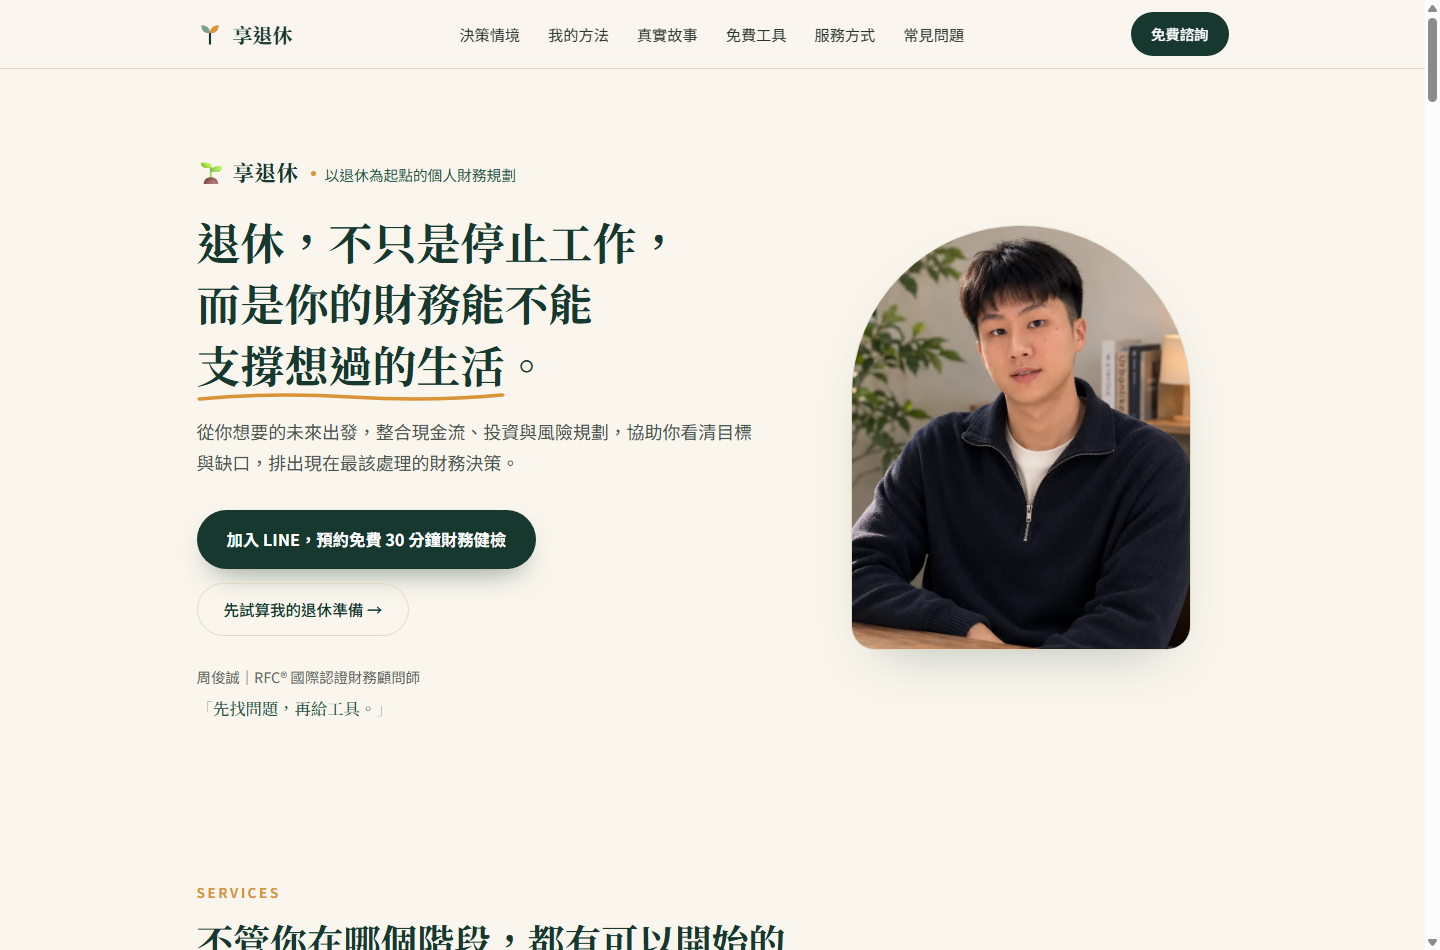
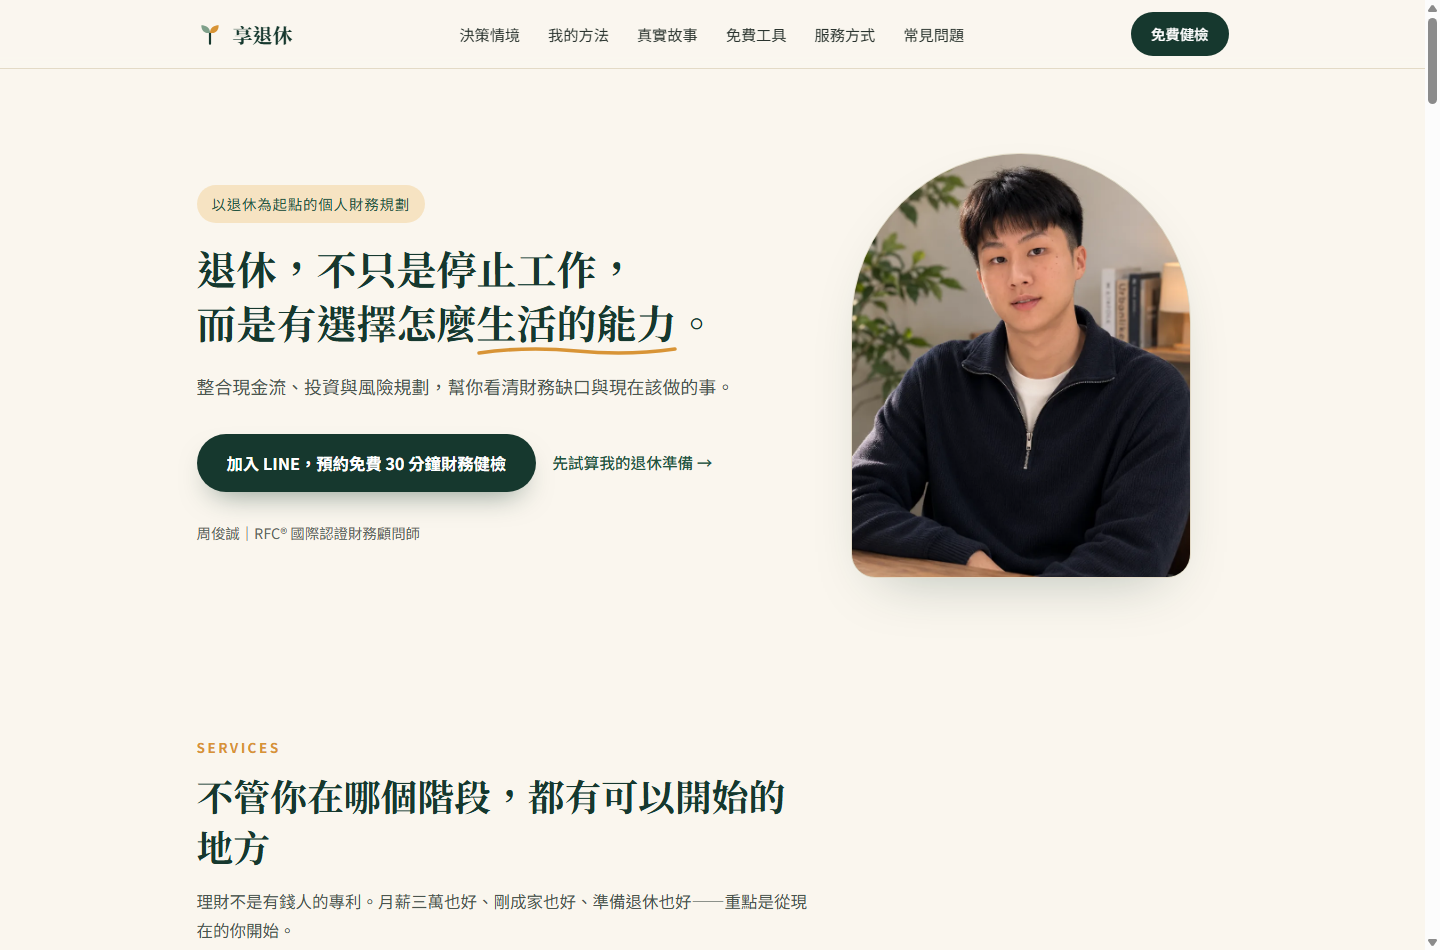
update

diff --git a/css/styles.css b/css/styles.css
@@ -69,9 +69,10 @@ header{
 }
 .hero h1{
   font-family:var(--serif);font-weight:700;color:var(--pine);
-  font-size:clamp(1.9rem, 3.2vw, 2.75rem);line-height:1.4;margin-bottom:20px;
+  font-size:clamp(1.9rem, 3vw, 2.5rem);line-height:1.35;margin-bottom:22px;
   text-wrap:balance;
 }
+.hero-h1-br{display:inline}
 .hl{position:relative;white-space:nowrap}
 .hl svg{position:absolute;left:0;bottom:-6px;width:100%;height:12px}
 .hero p.lead{font-size:1.12rem;color:#4A554E;max-width:32em;margin-bottom:32px}
@@ -96,20 +97,19 @@ header{
 }
 .portrait .badge b{font-family:var(--num);font-size:1.3rem;color:var(--pine);display:block}
 
-/* ---------- Hero:品牌 kicker・身分・方法・CTA 層級 ---------- */
+/* ---------- Hero:小標・身分・CTA 層級 ---------- */
 .hero-copy{max-width:40em}
-.hero-brand{display:flex;flex-wrap:wrap;align-items:baseline;gap:4px 12px;margin-bottom:20px}
-.hero-brand-name{font-family:var(--serif);font-weight:700;font-size:1.35rem;color:var(--pine);letter-spacing:.02em}
-.hero-brand-desc{font-size:.92rem;color:var(--pine-2);position:relative;padding-left:14px}
-.hero-brand-desc::before{content:"";position:absolute;left:0;top:.6em;width:5px;height:5px;border-radius:50%;background:var(--honey)}
+.hero-kicker{display:inline-block;font-size:.9rem;letter-spacing:.06em;color:var(--pine-2);
+  background:var(--honey-soft);padding:6px 15px;border-radius:999px;margin-bottom:18px}
 .btn.btn-lg{padding:15px 30px;font-size:1.02rem;font-weight:700}
-.hero-cta-primary{box-shadow:0 14px 30px -14px rgba(22,56,46,.55)}
-.btn.ghost{background:transparent;color:var(--pine);border:1.5px solid var(--line)}
-.btn.ghost:hover{background:var(--paper-2);color:var(--pine-2);border-color:var(--sage);transform:translateY(-1px)}
-.hero-id{font-size:.9rem;color:#5B6760;margin-top:28px}
-.hero-method{font-family:var(--serif);font-size:1.02rem;color:var(--pine-2);margin-top:5px}
-.hero-method::before{content:"「";opacity:.45}
-.hero-method::after{content:"」";opacity:.45}
+.hero-cta-primary{box-shadow:0 14px 30px -14px rgba(22,56,46,.55);white-space:nowrap}
+/* 次要 CTA:輕量文字連結,視覺層級明顯低於主 CTA */
+.hero-link{display:inline-flex;align-items:center;gap:4px;color:var(--pine-2);font-size:.98rem;
+  font-weight:500;text-decoration:none;padding:6px 2px;border-bottom:1px solid transparent;transition:.2s}
+.hero-link:hover{color:var(--pine);border-bottom-color:var(--sage)}
+.hero-id{display:flex;align-items:center;gap:10px;font-size:.9rem;color:#5B6760;margin-top:28px}
+.hero-id-ava{display:none;width:52px;height:52px;border-radius:50%;object-fit:cover;
+  border:2px solid #fff;box-shadow:0 4px 14px -6px rgba(22,56,46,.4);flex:none}
 
 /* ---------- 信任條 ---------- */
 .trust{border-top:1px solid var(--line);border-bottom:1px solid var(--line);background:var(--paper-2)}
@@ -327,21 +327,19 @@ footer .disc{max-width:720px;margin-top:10px;line-height:1.7}
   .quote{flex-basis:calc((100% - 22px)/2)}   /* 平板:一頁 2 則 */
   .trust-grid{grid-template-columns:repeat(2,1fr);gap:24px 12px}
   .nav-links{display:none}
-  /* 行動版:文字(品牌/標題/CTA)優先，大頭照縮小排到下方，一進頁就看得到在做什麼與下一步 */
-  .hero-grid{gap:24px}
+  /* 手機 Hero:降低密度 — 隱藏大照片改小頭像、次要 CTA 改文字連結、間距收斂 */
   .hero-copy{max-width:none}
-  .hero-brand{margin-bottom:14px}
-  .hero p.lead{margin-bottom:20px}
-  .hero-cta{flex-direction:column;align-items:stretch;gap:12px}
+  .hero-kicker{margin-bottom:16px}
+  .hero h1{margin-bottom:22px}
+  .hero p.lead{margin-bottom:28px}
+  .hero-cta{flex-direction:column;align-items:stretch;gap:14px}
   .hero-cta .btn{width:100%;text-align:center}
-  .hero-id{margin-top:22px}
-  .portrait{order:1;margin-top:4px}
-  .portrait .frame{width:min(200px,50vw)}
-  .portrait .frame span{font-size:3.4rem}
-  .portrait .badge{right:-6px;bottom:16px;padding:9px 13px;font-size:.78rem}
-  .portrait .badge b{font-size:1.05rem}
+  .hero-cta .hero-link{justify-content:center}
+  .hero-id{margin-top:24px}
+  .hero-id-ava{display:block}
+  .portrait{display:none}
   section{padding:64px 0}
-  .hero{padding:44px 0 48px}
+  .hero{padding:40px 0 44px}
   .calc-sec{margin:0}
   body{font-size:16px}
 }
@@ -428,9 +426,11 @@ footer .disc{max-width:720px;margin-top:10px;line-height:1.7}
   .quiz-detail{grid-template-columns:1fr}
   .quote{flex-basis:100%}        /* 手機:一頁 1 則 */
   .q-nav{display:none}           /* 改用滑動 + 圓點 */
-  /* 手機:主標題壓縮字級與行高,讓完整標題與主 CTA 落在第一屏,換行自然不孤字 */
-  .hero h1{font-size:1.72rem;line-height:1.5;margin-bottom:14px}
-  .hero .btn.btn-lg{padding:15px 22px;font-size:1rem}
+  /* 手機:主標題放大(約36–40px)、行高緊湊;隱藏桌機強制斷行,標題自然平衡成2–3行 */
+  .hero h1{font-size:clamp(2.15rem,9.4vw,2.55rem);line-height:1.2;margin-bottom:20px}
+  .hero-h1-br{display:none}
+  .hero p.lead{font-size:1.06rem;line-height:1.6;margin-bottom:26px}
+  .hero .btn.btn-lg{padding:15px 18px;font-size:.95rem}
 }
 
 /* 浮動諮詢按鈕 */

diff --git a/index.html b/index.html
@@ -3,7 +3,7 @@
 <head>
 <meta charset="UTF-8">
 <meta name="viewport" content="width=device-width, initial-scale=1.0">
-<title>享退休|你的家庭財務夥伴</title>
+<title>享退休｜以退休為起點的個人財務規劃</title>
 <meta name="description" content="享退休・財務顧問俊誠:用聽得懂的話，陪你把錢的事一件一件理清楚。加官方 LINE 免費諮詢。">
 <link rel="preconnect" href="https://fonts.googleapis.com">
 <link rel="preconnect" href="https://fonts.gstatic.com" crossorigin>
@@ -32,7 +32,7 @@
       <li><a href="#process">服務方式</a></li>
       <li><a href="#faq">常見問題</a></li>
     </ul>
-    <a class="btn small" href="https://line.me/R/ti/p/@453ubihw" target="_blank" rel="noopener">免費諮詢</a>
+    <a class="btn small" href="https://line.me/R/ti/p/@453ubihw" target="_blank" rel="noopener">免費健檢</a>
   </div>
 </header>
 
@@ -42,18 +42,17 @@
 <section class="hero">
   <div class="wrap hero-grid">
     <div class="hero-copy">
-      <p class="hero-brand">
-        <span class="hero-brand-name">🌱 享退休</span>
-        <span class="hero-brand-desc">以退休為起點的個人財務規劃</span>
-      </p>
-      <h1>退休，不只是停止工作，<br>而是你的財務能不能<span class="hl">支撐想過的生活<svg viewBox="0 0 200 12" preserveAspectRatio="none" aria-hidden="true"><path d="M2 9 Q 50 2, 100 7 T 198 5" fill="none" stroke="#D89436" stroke-width="3.5" stroke-linecap="round"/></svg></span>。</h1>
-      <p class="lead">從你想要的未來出發，整合現金流、投資與風險規劃，協助你看清目標與缺口，排出現在最該處理的財務決策。</p>
+      <p class="hero-kicker">以退休為起點的個人財務規劃</p>
+      <h1>退休，不只是停止工作，<br class="hero-h1-br">而是有選擇怎麼<span class="hl">生活的能力<svg viewBox="0 0 200 12" preserveAspectRatio="none" aria-hidden="true"><path d="M2 9 Q 50 2, 100 7 T 198 5" fill="none" stroke="#D89436" stroke-width="3.5" stroke-linecap="round"/></svg></span>。</h1>
+      <p class="lead">整合現金流、投資與風險規劃，幫你看清財務缺口與現在該做的事。</p>
       <div class="hero-cta">
         <a class="btn btn-lg hero-cta-primary" href="https://line.me/R/ti/p/@453ubihw" target="_blank" rel="noopener" onclick="window.gtag&&gtag('event','click_line_hero')">加入 LINE，預約免費 30 分鐘財務健檢</a>
-        <a class="btn ghost hero-cta-secondary" href="#tools" onclick="window.gtag&&gtag('event','click_hero_retirement_tool')">先試算我的退休準備 →</a>
+        <a class="hero-link hero-cta-secondary" href="#tools" onclick="window.gtag&&gtag('event','click_hero_retirement_tool')">先試算我的退休準備 →</a>
       </div>
-      <p class="hero-id">周俊誠｜RFC® 國際認證財務顧問師</p>
-      <p class="hero-method">先找問題，再給工具。</p>
+      <p class="hero-id">
+        <img class="hero-id-ava" src="picture-avatar.jpg" alt="財務顧問周俊誠" width="52" height="52" loading="lazy" decoding="async">
+        <span>周俊誠｜RFC® 國際認證財務顧問師</span>
+      </p>
     </div>
     <div class="portrait">
       <!-- ★ 主照片:周俊誠本人專業形象照(picture.png)。若日後更換,替換此檔即可 ★ -->
